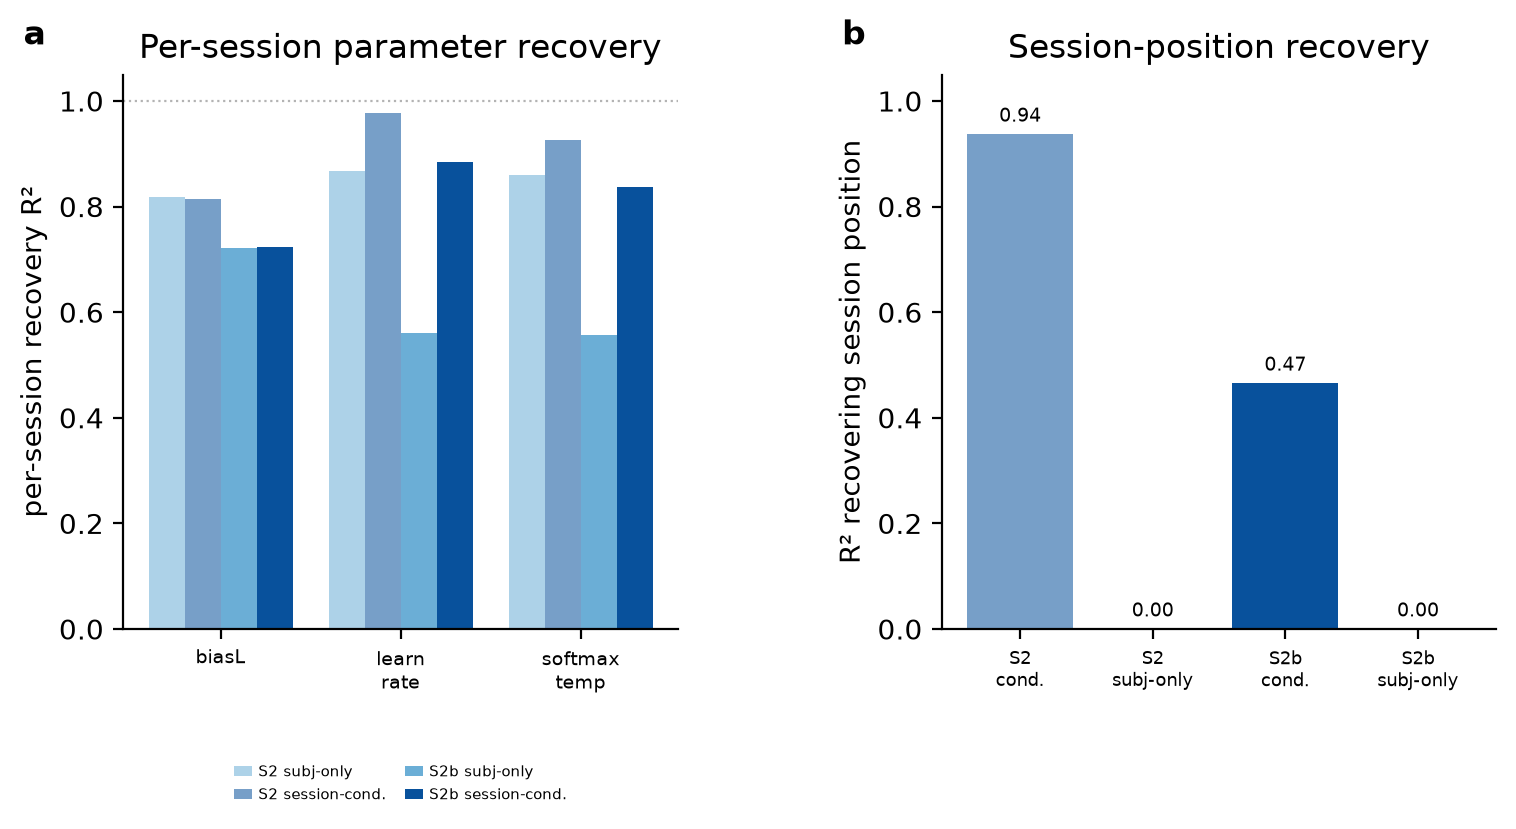
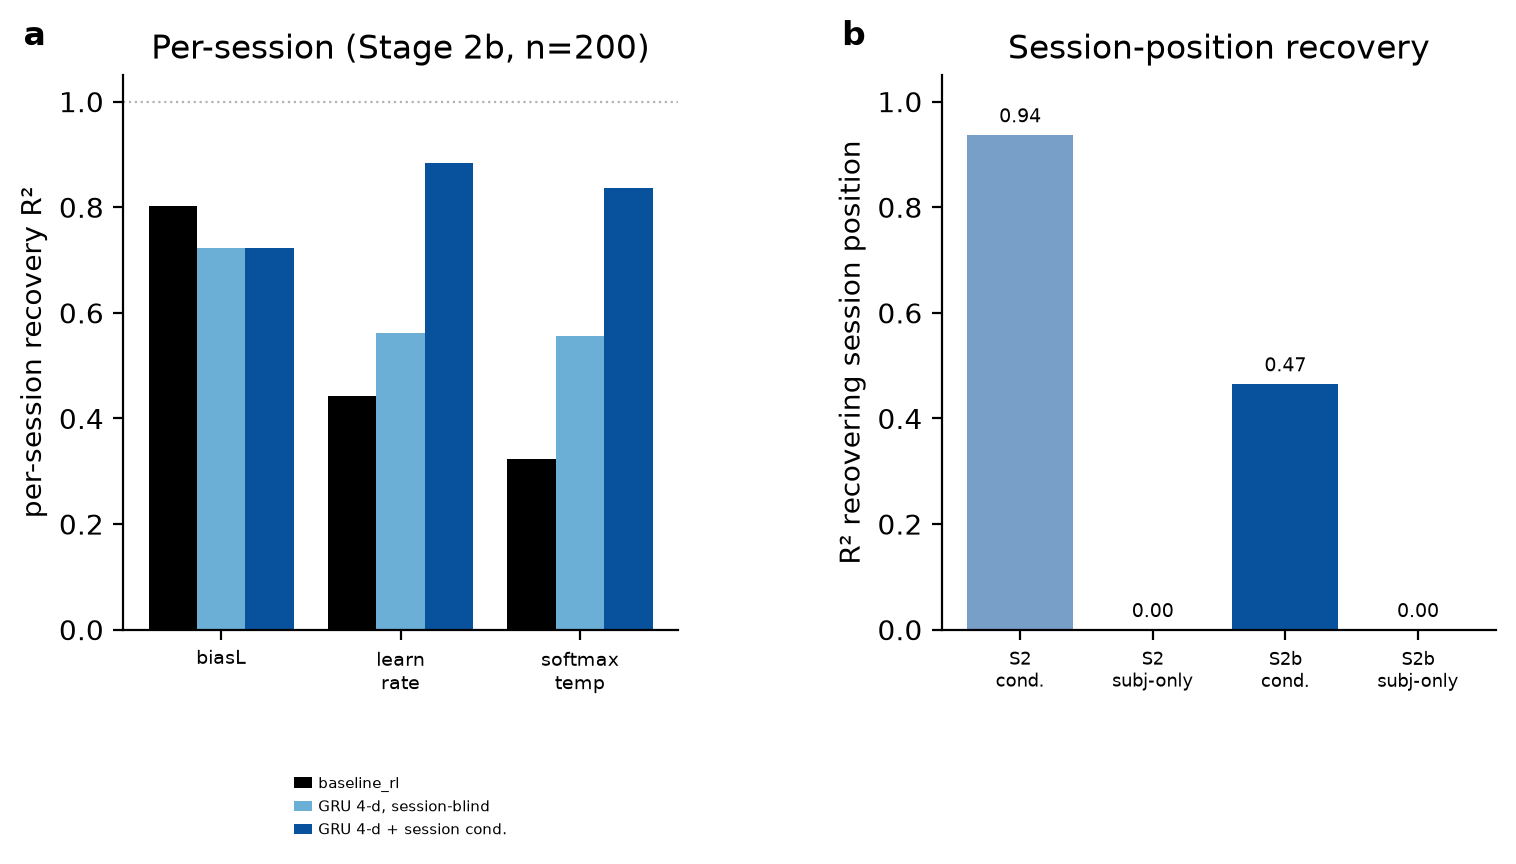
feat(study-04): add baseline_rl to stage2b per-session panel a (match stage-2 panel c)
Panel a now shows Stage 2b only, 3 bars/parameter (baseline_rl / GRU session-blind / GRU
session-conditioned) in the exact stage2_recovery_figure.py panel-c format/palette, for
direct side-by-side comparison with the Stage-2 combined figure. The S2-vs-S2b comparison
moves out of this panel (still visible via the flip figure's fit-quality panel).

baseline_rl S2b per-session recovery (compute_stage2b_baseline_persession.py, HPC, discovers
the run from sweep ykjk89o5, same broadcast method as the Stage-2 baseline recompute):
biasL=0.802 learn_rate=0.443 softmax_temp=0.324 (winsorized@20) mean=0.523 -- trails both
GRU variants on learn_rate/softmax_temp under the stronger non-monotonic drift.

Panel b (session-position recovery) unchanged; baseline_rl omitted there (no per-session
position estimate to score).

diff --git a/studies/04-gru-vs-disrnn-embedding-recovery/analysis/compute_stage2b_baseline_persession.py b/studies/04-gru-vs-disrnn-embedding-recovery/analysis/compute_stage2b_baseline_persession.py
@@ -1,0 +1,105 @@
+#!/usr/bin/env python
+"""Stage-2b baseline_rl PER-SESSION parameter recovery -> stage2b_baseline_persession.csv.
+
+Same method as compute_stage2_baseline_persession.py (broadcast the fixed per-subject fit
+to every session, score r2 against the per-session GT over ALL sessions — matching how the
+GRU trajectory-recovery numbers in stage2b_session_trajectory_recovery.csv were computed),
+applied to the single baseline-rl-stage2b run (N=200, sweep ykjk89o5).
+
+Run on an HPC compute node (disrnn-cpu, WANDB_API_KEY exported; wrapper importable).
+SDK-free: GraphQL for run discovery/config/file URLs, requests.get for GCS.
+
+softmax_inverse_temperature winsorized at 20 (true ceiling ~18.6) for the same reason as
+the stage-2 recompute. Raw R2, Spearman, n_winsorized kept as disclosed columns.
+"""
+import os, sys, json
+import numpy as np, pandas as pd, requests
+from sklearn.metrics import r2_score
+
+ENT, PROJ = "AIND-disRNN", "embedding_recovery"
+SWEEP = "ykjk89o5"
+GQL = "https://api.wandb.ai/graphql"; AUTH = ("api", os.environ["WANDB_API_KEY"])
+GT_COL = {"biasL": "param_biasL", "learn_rate": "param_learn_rate",
+          "softmax_temp": "param_softmax_inverse_temperature"}
+FIT_COL = {"biasL": "biasL", "learn_rate": "learn_rate",
+           "softmax_temp": "softmax_inverse_temperature"}
+WINSOR = 20.0
+
+
+def _gql(q, v):
+    r = requests.post(GQL, json={"query": q, "variables": v}, auth=AUTH, timeout=90)
+    r.raise_for_status(); j = r.json()
+    if j.get("errors"): raise RuntimeError(j["errors"])
+    return j["data"]
+
+
+def find_run():
+    q = """query($e:String!,$p:String!,$s:String!){project(name:$p,entityName:$e){
+      sweep(sweepName:$s){runs(first:20){edges{node{name state}}}}}}"""
+    edges = _gql(q, {"e": ENT, "p": PROJ, "s": SWEEP})["project"]["sweep"]["runs"]["edges"]
+    finished = [e["node"]["name"] for e in edges if e["node"]["state"] == "finished"]
+    assert len(finished) == 1, f"expected 1 finished run in sweep {SWEEP}, got {finished}"
+    return finished[0]
+
+
+def table_url(run):
+    q = """query($e:String!,$p:String!,$r:String!){project(name:$p,entityName:$e){
+      run(name:$r){files(first:200){edges{node{name directUrl}}}}}}"""
+    for e in _gql(q, {"e": ENT, "p": PROJ, "r": run})["project"]["run"]["files"]["edges"]:
+        n = e["node"]["name"]
+        if "subject_fit_metrics" in n and n.endswith(".table.json"):
+            return e["node"]["directUrl"]
+    raise FileNotFoundError(run)
+
+
+def run_cfg(run):
+    q = """query($e:String!,$p:String!,$r:String!){project(name:$p,entityName:$e){run(name:$r){config}}}"""
+    return json.loads(_gql(q, {"e": ENT, "p": PROJ, "r": run})["project"]["run"]["config"])
+
+
+def regen_gt_persession(cfg):
+    sys.path.insert(0, os.path.expanduser("~/code/aind-disrnn-wrapper/code"))
+    os.environ.setdefault("DISRNN_GEN_WORKERS", "1")
+    from data_loaders.hierarchical_synthetic import HierarchicalCognitiveAgents
+    d = cfg["data"]["value"] if isinstance(cfg["data"], dict) and "value" in cfg["data"] else cfg["data"]
+    ld = HierarchicalCognitiveAgents(
+        task=d["task"], agent=d["agent"], num_trials=d["num_trials"],
+        num_subjects=d["num_subjects"], num_sessions_per_subject=d["num_sessions_per_subject"],
+        eval_every_n=d.get("eval_every_n", 2), batch_size=d.get("batch_size"),
+        batch_mode=d.get("batch_mode", "random"),
+        subject_seed_stride=d.get("subject_seed_stride", 100000),
+        generation_workers=1, seed=d.get("seed", 42))
+    return ld.groundtruth_table()  # per-session rows, ALL sessions
+
+
+if __name__ == "__main__":
+    rid = find_run()
+    print("baseline-rl-stage2b run:", rid)
+    j = requests.get(table_url(rid), timeout=120).json()
+    fit = pd.DataFrame(j["data"], columns=j["columns"])
+    if fit["subject_index"].dtype != object:
+        fit["subject_id"] = fit["subject_index"].map(lambda i: f"synth{int(i):03d}")
+    gt = regen_gt_persession(run_cfg(rid))
+    keep_fit = ["subject_id"] + list(FIT_COL.values())
+    m = gt.merge(fit[keep_fit], on="subject_id", how="inner")
+    N = m.subject_id.nunique()
+    row = {"stage": "S2b", "cond": "baseline_rl", "num_subjects": N,
+           "n_session_rows": len(m), "wandb_run_id": rid}
+    r2s = []
+    for p in GT_COL:
+        t = m[GT_COL[p]].values; f = m[FIT_COL[p]].values
+        if p == "softmax_temp":
+            fw = np.clip(f, None, WINSOR)
+            row["r2_softmax_temp"] = r2_score(t, fw)
+            row["r2_softmax_temp_raw"] = r2_score(t, f)
+            row["softmax_spearman"] = pd.Series(f).corr(pd.Series(t), method="spearman")
+            row["n_softmax_winsorized_rows"] = int((f > WINSOR).sum())
+            r2s.append(row["r2_softmax_temp"])
+        else:
+            row[f"r2_{p}"] = r2_score(t, f); r2s.append(row[f"r2_{p}"])
+    row["r2_mean"] = float(np.mean(r2s))
+    row["softmax_winsor_threshold"] = WINSOR
+    print(f"S2b baseline_rl persession: biasL={row['r2_biasL']:.3f} learn={row['r2_learn_rate']:.3f} "
+          f"softmax={row['r2_softmax_temp']:.3f} mean={row['r2_mean']:.3f} ({len(m)} session rows)")
+    pd.DataFrame([row]).to_csv("stage2b_baseline_persession.csv", index=False)
+    print("WROTE stage2b_baseline_persession.csv")

diff --git a/studies/04-gru-vs-disrnn-embedding-recovery/analysis/stage2b_trajectory_figure.py b/studies/04-gru-vs-disrnn-embedding-recovery/analysis/stage2b_trajectory_figure.py
@@ -1,19 +1,23 @@
 #!/usr/bin/env python
 """Stage-2b SESSION-TRAJECTORY recovery (panels a,b), house-styled to match stage 1/2.
 
-  a  Per-session PARAMETER recovery R2 by parameter: Stage-2 vs Stage-2b, subject-only
-     (session-blind) vs session-conditioned. Stronger non-monotonic drift (S2b) lowers
-     recovery, and the session-conditioning delta adds the most where drift is largest.
+  a  Per-session PARAMETER recovery R2 at Stage 2b, n=200, THREE models (baseline_rl /
+     GRU session-blind / GRU session-conditioned) — the exact stage2_recovery_figure.py
+     panel-c format (same colors: black/light-blue/dark-blue, same bar layout), for direct
+     side-by-side comparison with the Stage-2 combined figure.
   b  Session-POSITION recovery (sessfrac R2): how well the embedding locates a session
-     within its subject. Subject-only is 0.00 by construction (a fixed per-subject point
-     carries no session index); session conditioning recovers it (S2 0.94 -> S2b 0.47 as
-     the drift turns non-monotonic).
+     within its subject, Stage 2 vs Stage 2b, subject-only vs session-conditioned.
+     Subject-only is 0.00 by construction (a fixed per-subject point carries no session
+     index); session conditioning recovers it (S2 0.94 -> S2b 0.47 as the drift turns
+     non-monotonic). baseline_rl has no session-position estimate (fixed per-subject fit
+     only) so it is not shown in panel b.
 
-House convention: color = session-condition (light blue = subject-only/session-blind,
-dark blue = session-conditioned); stage distinguished by saturation (Stage-2 lighter,
+House convention: black = baseline, light blue = session-blind/subject-only, dark blue =
+session-conditioned; in panel b, stage is distinguished by saturation (Stage-2 lighter,
 Stage-2b full). Square despined panels, presentation-scale fonts. Offline: reads the
-committed curated stage2b_trajectory_recovery.csv (frozen, from the session-trajectory
-recovery CSVs). Single seed (42) per cell -> no error bars.
+committed curated stage2b_trajectory_recovery.csv (frozen; baseline_rl S2b row from
+compute_stage2b_baseline_persession.py, same broadcast method as the Stage-2 baseline
+recompute). Single seed (42) per cell -> no error bars.
 
 NOTE: the qualitative drift-paths panel (embedding trajectories) from the original figure
 is omitted here because it needs per-session embedding coordinates that are not committed
@@ -29,18 +33,24 @@ BLUE = {"subj_only": "#6baed6", "conditioned": "#08519c"}
 ALPHA = {"S2": 0.55, "S2b": 1.0}
 PARAMS = ["biasL", "learn_rate", "softmax_temp"]
 
+# Panel-a house convention identical to stage2_recovery_figure.py panel c: baseline = black,
+# session-blind = light blue, session-conditioned = dark blue.
+COL = {"baseline_rl": "black", "subj_only": "#6baed6", "conditioned": "#08519c"}
+LAB = {"baseline_rl": "baseline_rl", "subj_only": "GRU 4-d, session-blind",
+       "conditioned": "GRU 4-d + session cond."}
 
-def _bars4(ax, df, valfn, ylabel, title, annotate_zero=False):
-    xpos = np.arange(len(PARAMS)) if valfn is None else None
-    combos = [("S2", "subj_only"), ("S2", "conditioned"), ("S2b", "subj_only"), ("S2b", "conditioned")]
-    w = 0.2
-    for i, (stage, cond) in enumerate(combos):
-        row = df[(df.stage == stage) & (df.cond == cond)].iloc[0]
+
+def _bars_s2b(ax, df, ylabel, title):
+    """Stage-2b only, 3 bars/parameter (baseline / session-blind / session-cond) —
+    exactly the stage2_recovery_figure.py panel-c format, for direct side-by-side."""
+    xpos = np.arange(len(PARAMS)); w = 0.27
+    order = ["baseline_rl", "subj_only", "conditioned"]
+    for i, cond in enumerate(order):
+        row = df[(df.stage == "S2b") & (df.cond == cond)].iloc[0]
         vals = [row[f"r2_{p}"] for p in PARAMS]
-        b = ax.bar(np.arange(3) + (i - 1.5) * w, vals, w, color=BLUE[cond], alpha=ALPHA[stage],
-                   label=f"{stage} {'subj-only' if cond=='subj_only' else 'session-cond.'}")
+        ax.bar(xpos + (i - 1) * w, vals, w, color=COL[cond], label=LAB[cond])
     ax.axhline(1.0, color="0.7", ls=":", lw=0.8, zorder=0)
-    ax.set_xticks(np.arange(3)); ax.set_xticklabels(["biasL", "learn\nrate", "softmax\ntemp"], fontsize=7)
+    ax.set_xticks(xpos); ax.set_xticklabels(["biasL", "learn\nrate", "softmax\ntemp"], fontsize=7)
     ax.set_ylabel(ylabel); ax.set_ylim(0, 1.05); ax.set_title(title)
 
 
@@ -48,10 +58,10 @@ def make_figure(traj, out_png):
     fig = plt.figure(figsize=(9, 3.6)); gs = fig.add_gridspec(1, 2, wspace=0.42)
     axA, axB = fig.add_subplot(gs[0, 0]), fig.add_subplot(gs[0, 1])
 
-    # ---- a: per-session parameter recovery ----
-    _bars4(axA, traj, None, "per-session recovery R\u00b2", "Per-session parameter recovery")
-    axA.legend(frameon=False, loc="upper center", fontsize=5.5, ncol=2,
-               bbox_to_anchor=(0.5, -0.22), columnspacing=1.2, handletextpad=0.4, handlelength=1.2)
+    # ---- a: per-session parameter recovery, Stage 2b only (matches stage2 panel c) ----
+    _bars_s2b(axA, traj, "per-session recovery R\u00b2", "Per-session (Stage 2b, n=200)")
+    axA.legend(frameon=False, loc="upper center", fontsize=5.5, ncol=1,
+               bbox_to_anchor=(0.5, -0.24), handletextpad=0.4, handlelength=1.2)
 
     # ---- b: session-position recovery ----
     combos = [("S2", "conditioned"), ("S2", "subj_only"), ("S2b", "conditioned"), ("S2b", "subj_only")]

diff --git a/studies/04-gru-vs-disrnn-embedding-recovery/analysis/reports/r1-gru-ladder.md b/studies/04-gru-vs-disrnn-embedding-recovery/analysis/reports/r1-gru-ladder.md
@@ -76,7 +76,7 @@ time, is what makes the likelihood axis discriminating below.*
 
 ![stage2b_session_trajectory.png](../figures/stage2b_session_trajectory.png)
 
-***Stage 2b — session trajectory.** Per-session parameter recovery R² by parameter for Stage 2 vs Stage 2b, subject-only (session-blind) vs session-conditioned (a); session-position recovery (b) — subject-only is 0 by construction, and the session delta recovers position at 0.94 (S2) → 0.47 (S2b) as the drift turns non-monotonic. Color: light blue = subject-only, dark blue = session-conditioned; Stage 2 lighter, Stage 2b full. Offline from committed CSVs.*
+***Stage 2b — session trajectory.** Per-session parameter recovery R² at Stage 2b (n=200) for baseline_rl / GRU session-blind / GRU session-conditioned (a) — the same 3-model, 3-bar format as the Stage-2 combined figure's panel c, for direct side-by-side comparison; session-position recovery, Stage 2 vs Stage 2b, subject-only vs session-conditioned (b) — subject-only is 0 by construction, and the session delta recovers position at 0.94 (S2) → 0.47 (S2b) as the drift turns non-monotonic (baseline_rl has no per-session position estimate, so it is not shown in b). Color: black = baseline, light blue = session-blind/subject-only, dark blue = session-conditioned; in (b), stage is distinguished by saturation. Offline from committed CSVs.*
 
 ![stage3_recovery_combined.png](../figures/stage3_recovery_combined.png)
 